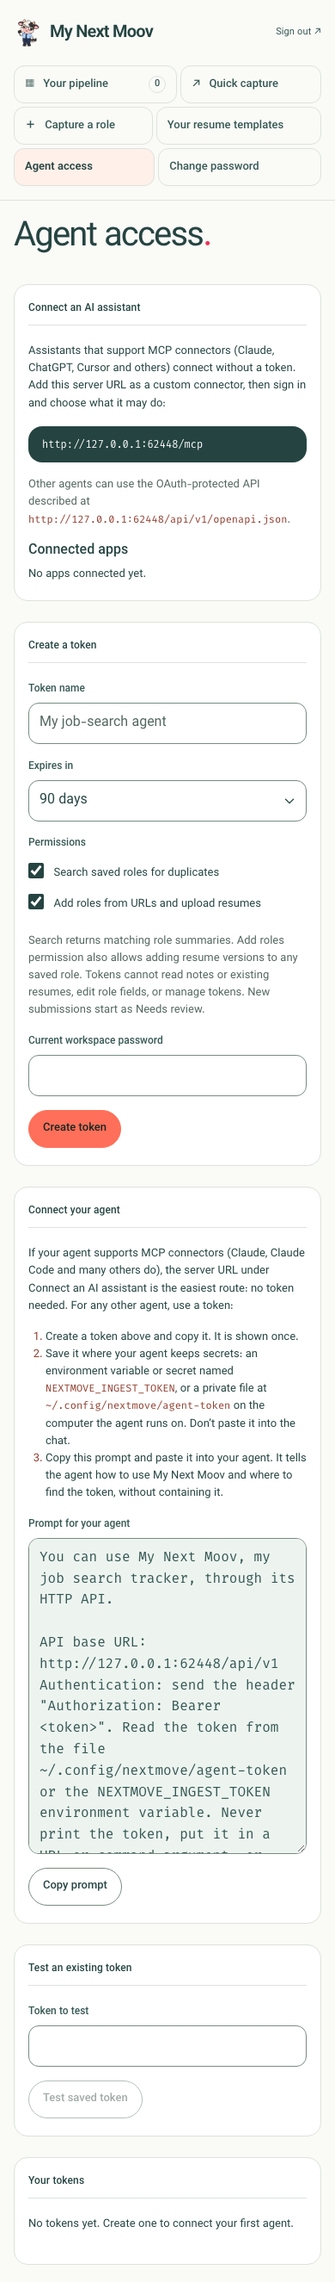
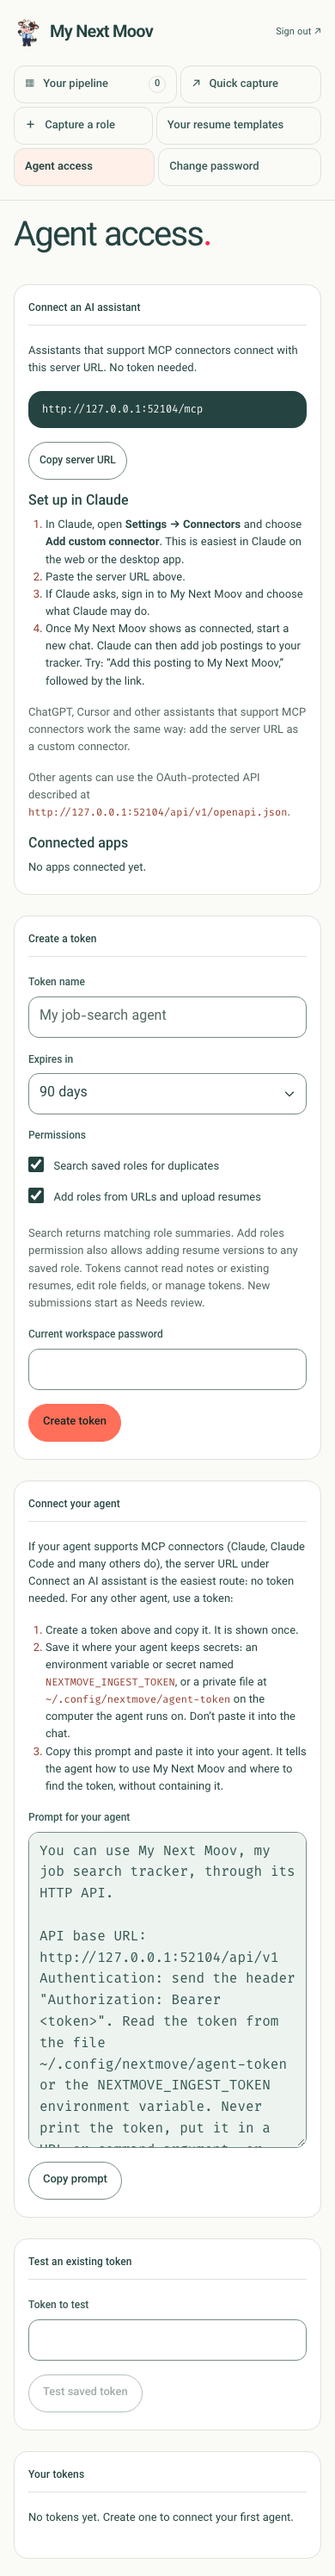
Add Claude connector setup steps to Agent access
"Connect an AI assistant" now walks through adding My Next Moov as a
custom connector in Claude (Settings → Connectors → Add custom
connector, paste the server URL, sign in, start a new chat), with a
Copy server URL button. Other MCP assistants get a one-line note. The
setup guide's connector section matches.

Claude-Session: https://claude.ai/code/session_01CG2H8NQyyfMS8e4z9QVwjP

diff --git a/frontend/src/AgentAccess.jsx b/frontend/src/AgentAccess.jsx
@@ -191,8 +191,24 @@ export function AgentAccess({ reauthRequired, onBusyChange, onConnected }) {
       {notice && <p role="status" className="alert alert-success">{notice}</p>}
       <section className="form-panel mb-4" aria-label="Connect an AI assistant">
         <h2 className="section-heading mt-0">Connect an AI assistant</h2>
-        <p>Assistants that support MCP connectors (Claude, ChatGPT, Cursor and others) connect without a token. Add this server URL as a custom connector, then sign in and choose what it may do:</p>
+        <p>Assistants that support MCP connectors connect with this server URL. No token needed.</p>
         <pre className="agent-url">{base}/mcp</pre>
+        <button type="button" className="btn btn-outline-secondary btn-sm mb-3" disabled={busy}
+          onClick={() => run(async () => {
+            try { await navigator.clipboard.writeText(`${base}/mcp`); }
+            catch { throw new Error("Copy unavailable. Select the server URL and copy it manually."); }
+            setNotice("Server URL copied.");
+          })}>
+          Copy server URL
+        </button>
+        <h3 className="h6">Set up in Claude</h3>
+        <ol>
+          <li>In Claude, open <strong>Settings → Connectors</strong> and choose <strong>Add custom connector</strong>. This is easiest in Claude on the web or the desktop app.</li>
+          <li>Paste the server URL above.</li>
+          <li>If Claude asks, sign in to My Next Moov and choose what Claude may do.</li>
+          <li>Once My Next Moov shows as connected, start a new chat. Claude can then add job postings to your tracker. Try: “Add this posting to My Next Moov,” followed by the link.</li>
+        </ol>
+        <p className="form-text">ChatGPT, Cursor and other assistants that support MCP connectors work the same way: add the server URL as a custom connector.</p>
         <p className="form-text">Other agents can use the OAuth-protected API described at <code>{base}/api/v1/openapi.json</code>.</p>
         <h3 className="h6 mt-3">Connected apps</h3>
         {!loading && !connections.length && <p className="mb-0">No apps connected yet.</p>}

diff --git a/frontend/tests/oauth-connect.spec.js b/frontend/tests/oauth-connect.spec.js
@@ -36,6 +36,8 @@ test("an agent's OAuth request signs in, asks for consent, returns a code, and s
   await page.getByRole("button", { name: "Agent access", exact: true }).click();
   const app = page.getByRole("region", { name: "Connect an AI assistant" });
   await expect(app).toContainText(`${path}mcp`);
+  await expect(app.getByRole("heading", { name: "Set up in Claude" })).toBeVisible();
+  await expect(app).toContainText("Add custom connector");
   await expect(app.getByRole("article")).toContainText("Phone assistant");
   await expect(app.getByRole("article")).toContainText("See roles");
   await app.getByRole("button", { name: "Disconnect Phone assistant" }).click();

diff --git a/docs/AGENT_SETUP.md b/docs/AGENT_SETUP.md
@@ -13,11 +13,19 @@ sign-up. It explains these options and links to Agent access with
 Use this if your agent supports MCP connectors. Claude, Claude Code, ChatGPT,
 Cursor and many others do.
 
-1. Open **Agent access** and copy the server URL under **Connect an AI assistant**
-   (for example `https://mynextmoov.com/mcp`).
-2. In your agent, add it as a custom connector (in Claude: **Settings → Connectors
-   → Add custom connector**).
-3. Sign in to My Next Moov when asked, and choose what the agent may do.
+To set it up in Claude:
+
+1. Open **Agent access** in My Next Moov and copy the server URL under
+   **Connect an AI assistant** (`https://mynextmoov.com/mcp`).
+2. In Claude, open **Settings → Connectors** and choose **Add custom connector**.
+   This is easiest in Claude on the web or the desktop app.
+3. Paste the server URL. If Claude asks, sign in to My Next Moov and choose what
+   Claude may do.
+4. Once My Next Moov shows as connected, start a new chat. Claude can then add job
+   postings to your tracker. Try: "Add this posting to My Next Moov," followed by the link.
+
+Other assistants that support MCP connectors work the same way: add the server URL
+as a custom connector and sign in.
 
 The app then appears under **Connected apps** on Agent access, where you can
 disconnect it at any time.
